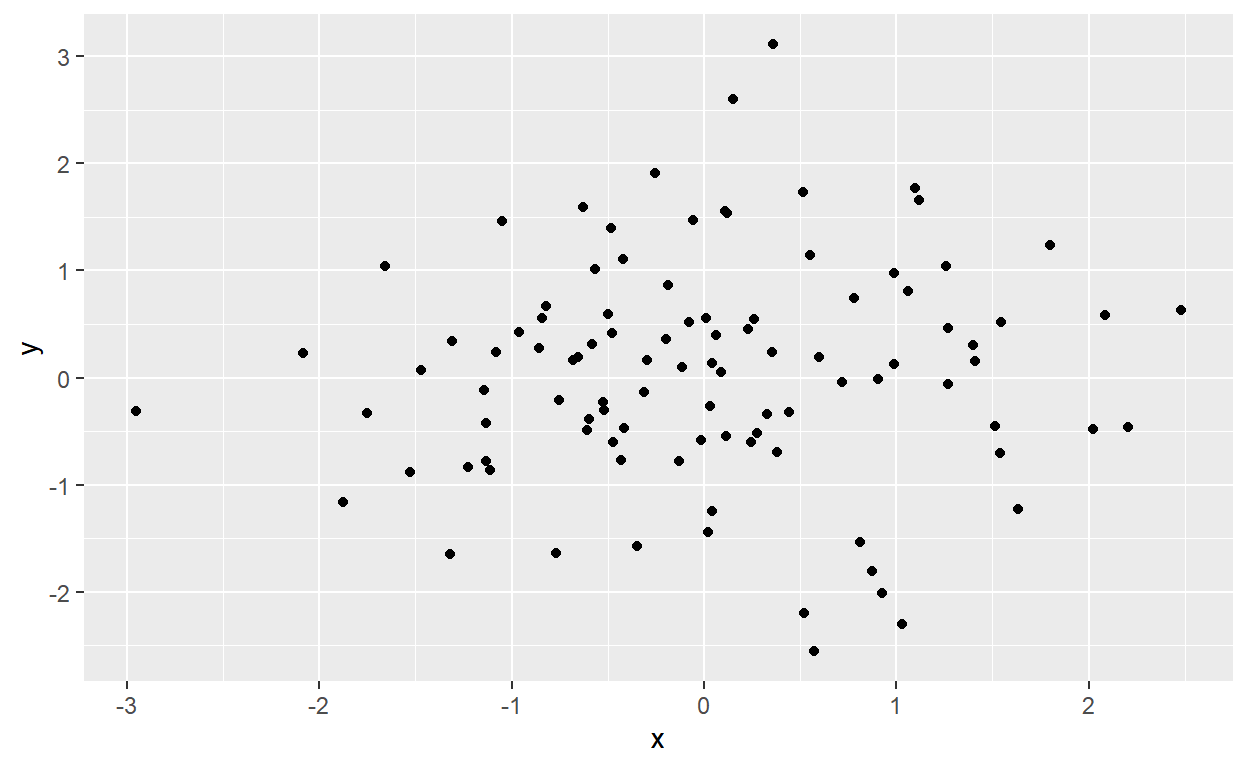
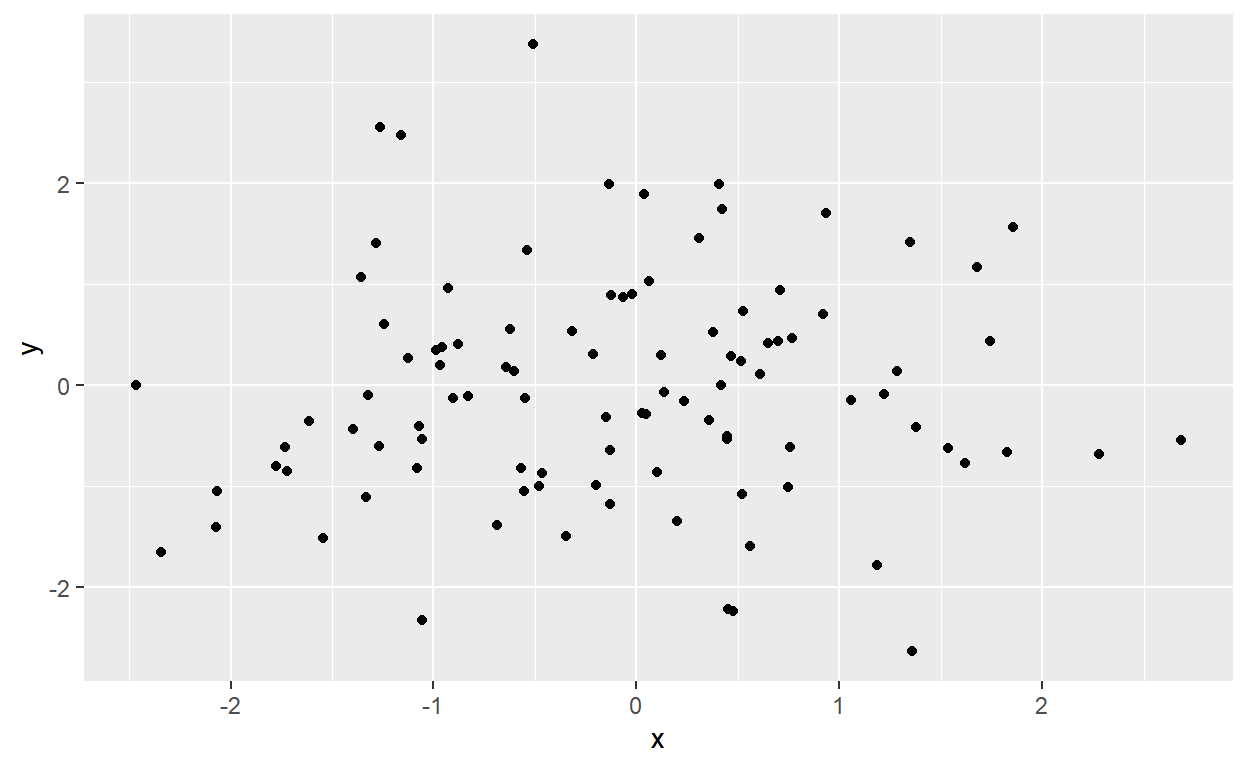
add hypothesis to index

diff --git a/docs/index.html b/docs/index.html
@@ -2091,14 +2091,17 @@ code span.wa { color: #5e5e5e; font-style: italic; } /* Warning */
 
 
 <div class="d-article">
+<head>
+<script src="https://hypothes.is/embed.js" async></script>
+</head>
 <p>Lorem ipsum dolor sit amet, consectetur adipiscing elit, sed do eiusmod tempor incididunt ut labore et dolore magna aliqua. Aliquam faucibus purus in massa. Pulvinar neque laoreet suspendisse interdum consectetur libero id faucibus. Risus in hendrerit gravida rutrum quisque non tellus. Vitae purus faucibus ornare suspendisse sed nisi lacus. Blandit volutpat maecenas volutpat blandit aliquam etiam erat velit scelerisque. Sollicitudin tempor id eu nisl nunc mi ipsum faucibus vitae. Duis at tellus at urna condimentum mattis pellentesque. Consectetur adipiscing elit ut aliquam. Ultrices eros in cursus turpis massa tincidunt dui. Ut ornare lectus sit amet est placerat in egestas. Ut faucibus pulvinar elementum integer enim neque.</p>
 <div class="layout-chunk" data-layout="l-body">
 <p><img src="index_files/figure-html5/unnamed-chunk-1-1.png" width="624" /></p>
 </div>
 <p>Sed nisi lacus sed viverra tellus in. Dignissim suspendisse in est ante. Velit dignissim sodales ut eu sem integer vitae justo. Lorem ipsum dolor sit amet consectetur adipiscing elit ut. Tempor orci eu lobortis elementum nibh tellus molestie nunc. Congue mauris rhoncus aenean vel elit. Tristique magna sit amet purus. Tempus egestas sed sed risus pretium quam vulputate dignissim suspendisse. Amet volutpat consequat mauris nunc congue nisi vitae suscipit tellus. In pellentesque massa placerat duis ultricies lacus sed turpis tincidunt. Amet mattis vulputate enim nulla. Nec tincidunt praesent semper feugiat nibh sed pulvinar proin gravida. Dictum at tempor commodo ullamcorper a lacus. Nunc sed augue lacus viverra. Lectus mauris ultrices eros in cursus turpis massa. Egestas quis ipsum suspendisse ultrices gravida.</p>
 <div class="layout-chunk" data-layout="l-body">
-<div id="htmlwidget-7ad26327c539f2e6b725" style="width:624px;height:384px;" class="plotly html-widget"></div>
-<script type="application/json" data-for="htmlwidget-7ad26327c539f2e6b725">{"x":{"data":[{"x":[-0.470922708622803,-0.525332683863375,0.228465040708081,-0.423224576609438,-0.520581955047997,0.516056286407597,-0.818811933272818,1.26083787815944,-0.0578514241185857,-0.128304597467915,0.242715058323581,-0.755217530786517,0.0437603943058629,-1.08069871113269,1.39835451951121,0.986148786908755,0.0210759197556903,1.51139959933412,-0.963864170877986,1.06326016044508,-0.501365997323327,1.03122037480688,0.599559476162875,1.40769636406824,-0.432771788643637,-1.14310982724865,0.087260314555282,-1.05245154849934,-1.65695477430599,0.903813274120585,-0.348754101304703,-0.597486176473056,-0.25399660730475,-2.08475105321255,0.440366517806569,1.53902937521057,-1.75177394252995,-1.87649979474847,-0.606826782398426,0.522293141594886,-0.0144395563930807,-1.32016929229907,-0.188378321550743,0.122021094049611,-0.311478315309843,1.54441001109354,1.63092407958691,-0.580876203738344,-0.679874555974803,0.571089769248161,-0.295074035981479,-0.478997916896905,2.20531838082837,0.0431375399348107,1.2692874510898,-1.2286901114373,0.0123737150676909,2.47855437122526,0.0324779832897015,-0.112642436088627,0.354542713486598,-1.31016311492019,1.26918416319636,2.02489357137564,0.109615760579394,-0.857147430734865,-0.414142418222927,-1.13344275154242,-0.196501842561438,0.718451380688568,0.811435652916273,0.875648973044329,1.09580787038857,1.12034320520914,0.550170935743917,-0.567279466443453,0.379471086885187,-0.631245736259801,0.260510496201475,0.148661831793631,-0.484405882764331,-0.657537466748591,-0.771808653295114,-0.0777534220286473,-1.11091066437994,0.0639488121583972,-1.52938632561828,0.989309005299128,2.08481645125809,-2.95416021347056,0.928254657517707,0.276701432973086,-0.84125736920638,-1.47209633960409,-1.13164489018588,0.326141956624248,1.79717672709035,0.115357017489081,0.356562525646185,0.779072907799762],"y":[-0.600964836308273,-0.225335499949636,0.454984198495073,1.11026009242324,-0.304615050011539,1.72775561064807,0.663994137146154,1.0426048003196,1.47204221974353,-0.781382222396711,-0.600597579467009,-0.205137263101113,0.135234298184707,0.23548346419448,0.301358382516322,0.130288433267433,-1.43906894706239,-0.450338005077777,0.425220619409574,0.807739949046905,0.592266721219744,-2.30154993758267,0.194972774220819,0.150598446207751,-0.768615024339789,-0.117211064687173,0.0532965013279102,1.45678486788243,1.04157238409493,-0.0151214589975831,-1.57288996612825,-0.387825262984479,1.9119960444602,0.232094694673552,-0.318613614198094,-0.702969793236207,-0.326793215266181,-1.16015691351886,-0.489318435058216,-2.19907519609456,-0.58537374150171,-1.64509328547148,0.865297932405173,1.53221871950639,-0.133916831470098,0.522066629356322,-1.22580088671131,0.310076375830113,0.15945600481534,-2.55248314872905,0.163593645644182,0.416722673487436,-0.459752674576101,-1.24491171928319,0.466732390714612,-0.83378088262909,0.551997452933061,0.632606025493533,-0.261967704865544,0.0981096609800705,0.237829931487986,0.336860474500934,-0.0628408305358527,-0.478192143715675,1.55273532282325,0.280038895116113,-0.470386950917091,-0.420495531260061,0.358660490988653,-0.0453345924899042,-1.53195075376606,-1.80350900095267,1.77164205210978,1.66083690679582,1.14062809799485,1.0088142884622,-0.69144894017996,1.59182554954463,0.54921213010506,2.59740153327435,1.39318507394987,0.193948069194219,-1.63389040230987,0.519737502807111,-0.863398190212747,0.392528938710111,-0.880656674150109,0.979283932787966,0.580754663225914,-0.309404430100139,-2.01131940849013,-0.518931261733896,0.551935923992207,0.0667604893550881,-0.774505544411928,-0.343725624289283,1.236702582672,-0.547958538106534,3.10838863143019,0.737997316847097],"text":["x: -0.47092271<br />y: -0.60096484","x: -0.52533268<br />y: -0.22533550","x:  0.22846504<br />y:  0.45498420","x: -0.42322458<br />y:  1.11026009","x: -0.52058196<br />y: -0.30461505","x:  0.51605629<br />y:  1.72775561","x: -0.81881193<br />y:  0.66399414","x:  1.26083788<br />y:  1.04260480","x: -0.05785142<br />y:  1.47204222","x: -0.12830460<br />y: -0.78138222","x:  0.24271506<br />y: -0.60059758","x: -0.75521753<br />y: -0.20513726","x:  0.04376039<br />y:  0.13523430","x: -1.08069871<br />y:  0.23548346","x:  1.39835452<br />y:  0.30135838","x:  0.98614879<br />y:  0.13028843","x:  0.02107592<br />y: -1.43906895","x:  1.51139960<br />y: -0.45033801","x: -0.96386417<br />y:  0.42522062","x:  1.06326016<br />y:  0.80773995","x: -0.50136600<br />y:  0.59226672","x:  1.03122037<br />y: -2.30154994","x:  0.59955948<br />y:  0.19497277","x:  1.40769636<br />y:  0.15059845","x: -0.43277179<br />y: -0.76861502","x: -1.14310983<br />y: -0.11721106","x:  0.08726031<br />y:  0.05329650","x: -1.05245155<br />y:  1.45678487","x: -1.65695477<br />y:  1.04157238","x:  0.90381327<br />y: -0.01512146","x: -0.34875410<br />y: -1.57288997","x: -0.59748618<br />y: -0.38782526","x: -0.25399661<br />y:  1.91199604","x: -2.08475105<br />y:  0.23209469","x:  0.44036652<br />y: -0.31861361","x:  1.53902938<br />y: -0.70296979","x: -1.75177394<br />y: -0.32679322","x: -1.87649979<br />y: -1.16015691","x: -0.60682678<br />y: -0.48931844","x:  0.52229314<br />y: -2.19907520","x: -0.01443956<br />y: -0.58537374","x: -1.32016929<br />y: -1.64509329","x: -0.18837832<br />y:  0.86529793","x:  0.12202109<br />y:  1.53221872","x: -0.31147832<br />y: -0.13391683","x:  1.54441001<br />y:  0.52206663","x:  1.63092408<br />y: -1.22580089","x: -0.58087620<br />y:  0.31007638","x: -0.67987456<br />y:  0.15945600","x:  0.57108977<br />y: -2.55248315","x: -0.29507404<br />y:  0.16359365","x: -0.47899792<br />y:  0.41672267","x:  2.20531838<br />y: -0.45975267","x:  0.04313754<br />y: -1.24491172","x:  1.26928745<br />y:  0.46673239","x: -1.22869011<br />y: -0.83378088","x:  0.01237372<br />y:  0.55199745","x:  2.47855437<br />y:  0.63260603","x:  0.03247798<br />y: -0.26196770","x: -0.11264244<br />y:  0.09810966","x:  0.35454271<br />y:  0.23782993","x: -1.31016311<br />y:  0.33686047","x:  1.26918416<br />y: -0.06284083","x:  2.02489357<br />y: -0.47819214","x:  0.10961576<br />y:  1.55273532","x: -0.85714743<br />y:  0.28003890","x: -0.41414242<br />y: -0.47038695","x: -1.13344275<br />y: -0.42049553","x: -0.19650184<br />y:  0.35866049","x:  0.71845138<br />y: -0.04533459","x:  0.81143565<br />y: -1.53195075","x:  0.87564897<br />y: -1.80350900","x:  1.09580787<br />y:  1.77164205","x:  1.12034321<br />y:  1.66083691","x:  0.55017094<br />y:  1.14062810","x: -0.56727947<br />y:  1.00881429","x:  0.37947109<br />y: -0.69144894","x: -0.63124574<br />y:  1.59182555","x:  0.26051050<br />y:  0.54921213","x:  0.14866183<br />y:  2.59740153","x: -0.48440588<br />y:  1.39318507","x: -0.65753747<br />y:  0.19394807","x: -0.77180865<br />y: -1.63389040","x: -0.07775342<br />y:  0.51973750","x: -1.11091066<br />y: -0.86339819","x:  0.06394881<br />y:  0.39252894","x: -1.52938633<br />y: -0.88065667","x:  0.98930901<br />y:  0.97928393","x:  2.08481645<br />y:  0.58075466","x: -2.95416021<br />y: -0.30940443","x:  0.92825466<br />y: -2.01131941","x:  0.27670143<br />y: -0.51893126","x: -0.84125737<br />y:  0.55193592","x: -1.47209634<br />y:  0.06676049","x: -1.13164489<br />y: -0.77450554","x:  0.32614196<br />y: -0.34372562","x:  1.79717673<br />y:  1.23670258","x:  0.11535702<br />y: -0.54795854","x:  0.35656253<br />y:  3.10838863","x:  0.77907291<br />y:  0.73799732"],"type":"scatter","mode":"markers","marker":{"autocolorscale":false,"color":"rgba(0,0,0,1)","opacity":1,"size":5.66929133858268,"symbol":"circle","line":{"width":1.88976377952756,"color":"rgba(0,0,0,1)"}},"hoveron":"points","showlegend":false,"xaxis":"x","yaxis":"y","hoverinfo":"text","frame":null}],"layout":{"margin":{"t":27.8721461187215,"r":7.30593607305936,"b":41.8264840182648,"l":37.2602739726027},"plot_bgcolor":"rgba(235,235,235,1)","paper_bgcolor":"rgba(255,255,255,1)","font":{"color":"rgba(0,0,0,1)","family":"","size":14.6118721461187},"xaxis":{"domain":[0,1],"automargin":true,"type":"linear","autorange":false,"range":[-3.22579594270535,2.75019010046005],"tickmode":"array","ticktext":["-3","-2","-1","0","1","2"],"tickvals":[-3,-2,-1,4.44089209850063e-16,1,2],"categoryorder":"array","categoryarray":["-3","-2","-1","0","1","2"],"nticks":null,"ticks":"outside","tickcolor":"rgba(51,51,51,1)","ticklen":3.65296803652968,"tickwidth":0.66417600664176,"showticklabels":true,"tickfont":{"color":"rgba(77,77,77,1)","family":"","size":11.689497716895},"tickangle":-0,"showline":false,"linecolor":null,"linewidth":0,"showgrid":true,"gridcolor":"rgba(255,255,255,1)","gridwidth":0.66417600664176,"zeroline":false,"anchor":"y","title":{"text":"x","font":{"color":"rgba(0,0,0,1)","family":"","size":14.6118721461187}},"hoverformat":".2f"},"yaxis":{"domain":[0,1],"automargin":true,"type":"linear","autorange":false,"range":[-2.83552673773702,3.39143222043815],"tickmode":"array","ticktext":["-2","-1","0","1","2","3"],"tickvals":[-2,-1,0,1,2,3],"categoryorder":"array","categoryarray":["-2","-1","0","1","2","3"],"nticks":null,"ticks":"outside","tickcolor":"rgba(51,51,51,1)","ticklen":3.65296803652968,"tickwidth":0.66417600664176,"showticklabels":true,"tickfont":{"color":"rgba(77,77,77,1)","family":"","size":11.689497716895},"tickangle":-0,"showline":false,"linecolor":null,"linewidth":0,"showgrid":true,"gridcolor":"rgba(255,255,255,1)","gridwidth":0.66417600664176,"zeroline":false,"anchor":"x","title":{"text":"y","font":{"color":"rgba(0,0,0,1)","family":"","size":14.6118721461187}},"hoverformat":".2f"},"shapes":[{"type":"rect","fillcolor":null,"line":{"color":null,"width":0,"linetype":[]},"yref":"paper","xref":"paper","x0":0,"x1":1,"y0":0,"y1":1}],"showlegend":false,"legend":{"bgcolor":"rgba(255,255,255,1)","bordercolor":"transparent","borderwidth":1.88976377952756,"font":{"color":"rgba(0,0,0,1)","family":"","size":11.689497716895}},"hovermode":"closest","barmode":"relative"},"config":{"doubleClick":"reset","showSendToCloud":false},"source":"A","attrs":{"1d902f471bd8":{"x":{},"y":{},"type":"scatter"}},"cur_data":"1d902f471bd8","visdat":{"1d902f471bd8":["function (y) ","x"]},"highlight":{"on":"plotly_click","persistent":false,"dynamic":false,"selectize":false,"opacityDim":0.2,"selected":{"opacity":1},"debounce":0},"shinyEvents":["plotly_hover","plotly_click","plotly_selected","plotly_relayout","plotly_brushed","plotly_brushing","plotly_clickannotation","plotly_doubleclick","plotly_deselect","plotly_afterplot","plotly_sunburstclick"],"base_url":"https://plot.ly"},"evals":[],"jsHooks":[]}</script>
+<div id="htmlwidget-b2d756138a0ed5206eeb" style="width:624px;height:384px;" class="plotly html-widget"></div>
+<script type="application/json" data-for="htmlwidget-b2d756138a0ed5206eeb">{"x":{"data":[{"x":[0.359090457389301,-0.687244848279964,-1.73305138356253,0.404942599577758,-0.465746701535849,-0.566900773350924,-1.05870680812176,2.27817122944334,-0.621706015523269,-1.77675991468972,-0.552488772324658,-0.986600450208731,-0.3159916942746,1.22140914615962,-2.46680858461581,0.447202293239474,-0.215227074370529,0.0364428183073453,-0.131371108446765,1.61721757481829,-1.72216773945344,0.520392152074294,-1.54415443435493,-2.06706964135475,-1.24594050884141,0.449345990040106,-0.129829683917857,-1.0832247492811,0.758841184682222,-2.07267982692194,1.05535963221572,-0.880282151099221,-1.39695936719161,-0.831983563419214,1.74174588308675,0.919820586844987,0.748306869733505,0.649832662220204,-0.537669735228561,1.6795084648807,1.34980690344737,-0.604593700015321,-1.3205426031329,-1.28119057849389,0.0297140407882576,-2.34505060899858,-0.511630993810347,-1.12679356124646,-1.27049296942716,0.23440825399242,1.35902078538586,-1.05829652785984,-0.124450198356386,0.695464137682168,-1.06922386166401,1.5353847249665,0.606922881335746,-0.904993210283112,-0.95612086153501,-0.13346039615554,-0.548585224435722,2.68149882244386,-1.3345609859089,-0.0231293552347961,1.18363931733965,1.85361759125809,0.47568415793923,-0.200621219125924,0.76711520997551,0.464031211181546,0.415044180072217,0.443922117631874,0.0631458158874723,-0.349234253810435,-1.35569624444627,0.93341242280365,-0.0684017220601564,1.37574795942643,0.422213599474353,0.376870314046323,0.526179622927171,-0.147653414594098,0.0471295022539164,-1.2612214070574,-0.644613063499362,-0.968557529032416,0.120012877917928,-0.478902999798121,0.709463155015474,0.201034949171931,1.28350668697061,0.306522525185889,0.559666528693267,0.136781021849588,0.0990301506872329,-1.61326980558499,0.513903158420842,-0.929914205286648,1.82787436056157,-1.16090762978849],"y":[-0.349164786087084,-1.38910189463597,-0.610170054600067,1.99446531074592,-0.872046268035642,-0.824340824689447,-0.529833507581669,-0.684158152151602,0.559080110296364,-0.797918346652734,-1.04421941893586,0.349413781682335,0.535330493552852,-0.0909576971449157,-0.0029547979235647,-0.504176165910864,0.308537493983027,1.89596199971046,-0.647589634336684,-0.769599005081147,-0.848601242657752,-1.0735581109751,-1.51651800188693,-1.05160629219712,0.606781369143607,-2.22014131365557,-1.18226793705992,-0.819836204929751,-0.615181982262546,-1.40999029784741,-0.149469417226151,0.403798846687523,-0.430403898574243,-0.106239402163616,0.440941600312374,0.707922430804216,-1.01095945543732,0.419626071422887,1.34041896824346,1.1725455563915,1.41669650820398,0.139035945247286,-0.0933390893972711,1.40245384561067,-0.271779052490357,-1.65207474335529,3.37363750703142,0.273031106765416,-0.599967737062045,-0.155868463722211,-2.63432072059628,-2.32805455867688,0.890901953673943,0.438953842346937,-0.409524570003063,-0.623700433221886,0.107394102459073,-0.126136177356593,0.376023080552425,1.98791520520019,-0.125856574554897,-0.538790819191816,-1.10604257784638,0.90392566460855,-1.77680942702932,1.56274382523762,-2.24006530807548,-0.985788269867965,0.467743191587966,0.284519457696634,0.00152576238381679,-0.537360016423436,1.02639495909341,-1.49827258755304,1.07373004685122,1.7048824872046,0.876917426151729,-0.412731251087778,1.74687075394385,0.530432548113123,0.732035376306514,-0.317809097931198,-0.28857765563926,2.55476663807565,0.177559003883271,0.202292723868212,0.297927636555137,-1.00122277519673,0.939488231879319,-1.34168618599962,0.139802307151293,1.45527347771336,-1.58936371527997,-0.0643015914344836,-0.86373375885682,-0.359317642456313,0.234188966027361,0.960878282076478,-0.662704986399125,2.48150072179644],"text":["x:  0.35909046<br />y: -0.349164786","x: -0.68724485<br />y: -1.389101895","x: -1.73305138<br />y: -0.610170055","x:  0.40494260<br />y:  1.994465311","x: -0.46574670<br />y: -0.872046268","x: -0.56690077<br />y: -0.824340825","x: -1.05870681<br />y: -0.529833508","x:  2.27817123<br />y: -0.684158152","x: -0.62170602<br />y:  0.559080110","x: -1.77675991<br />y: -0.797918347","x: -0.55248877<br />y: -1.044219419","x: -0.98660045<br />y:  0.349413782","x: -0.31599169<br />y:  0.535330494","x:  1.22140915<br />y: -0.090957697","x: -2.46680858<br />y: -0.002954798","x:  0.44720229<br />y: -0.504176166","x: -0.21522707<br />y:  0.308537494","x:  0.03644282<br />y:  1.895962000","x: -0.13137111<br />y: -0.647589634","x:  1.61721757<br />y: -0.769599005","x: -1.72216774<br />y: -0.848601243","x:  0.52039215<br />y: -1.073558111","x: -1.54415443<br />y: -1.516518002","x: -2.06706964<br />y: -1.051606292","x: -1.24594051<br />y:  0.606781369","x:  0.44934599<br />y: -2.220141314","x: -0.12982968<br />y: -1.182267937","x: -1.08322475<br />y: -0.819836205","x:  0.75884118<br />y: -0.615181982","x: -2.07267983<br />y: -1.409990298","x:  1.05535963<br />y: -0.149469417","x: -0.88028215<br />y:  0.403798847","x: -1.39695937<br />y: -0.430403899","x: -0.83198356<br />y: -0.106239402","x:  1.74174588<br />y:  0.440941600","x:  0.91982059<br />y:  0.707922431","x:  0.74830687<br />y: -1.010959455","x:  0.64983266<br />y:  0.419626071","x: -0.53766974<br />y:  1.340418968","x:  1.67950846<br />y:  1.172545556","x:  1.34980690<br />y:  1.416696508","x: -0.60459370<br />y:  0.139035945","x: -1.32054260<br />y: -0.093339089","x: -1.28119058<br />y:  1.402453846","x:  0.02971404<br />y: -0.271779052","x: -2.34505061<br />y: -1.652074743","x: -0.51163099<br />y:  3.373637507","x: -1.12679356<br />y:  0.273031107","x: -1.27049297<br />y: -0.599967737","x:  0.23440825<br />y: -0.155868464","x:  1.35902079<br />y: -2.634320721","x: -1.05829653<br />y: -2.328054559","x: -0.12445020<br />y:  0.890901954","x:  0.69546414<br />y:  0.438953842","x: -1.06922386<br />y: -0.409524570","x:  1.53538472<br />y: -0.623700433","x:  0.60692288<br />y:  0.107394102","x: -0.90499321<br />y: -0.126136177","x: -0.95612086<br />y:  0.376023081","x: -0.13346040<br />y:  1.987915205","x: -0.54858522<br />y: -0.125856575","x:  2.68149882<br />y: -0.538790819","x: -1.33456099<br />y: -1.106042578","x: -0.02312936<br />y:  0.903925665","x:  1.18363932<br />y: -1.776809427","x:  1.85361759<br />y:  1.562743825","x:  0.47568416<br />y: -2.240065308","x: -0.20062122<br />y: -0.985788270","x:  0.76711521<br />y:  0.467743192","x:  0.46403121<br />y:  0.284519458","x:  0.41504418<br />y:  0.001525762","x:  0.44392212<br />y: -0.537360016","x:  0.06314582<br />y:  1.026394959","x: -0.34923425<br />y: -1.498272588","x: -1.35569624<br />y:  1.073730047","x:  0.93341242<br />y:  1.704882487","x: -0.06840172<br />y:  0.876917426","x:  1.37574796<br />y: -0.412731251","x:  0.42221360<br />y:  1.746870754","x:  0.37687031<br />y:  0.530432548","x:  0.52617962<br />y:  0.732035376","x: -0.14765341<br />y: -0.317809098","x:  0.04712950<br />y: -0.288577656","x: -1.26122141<br />y:  2.554766638","x: -0.64461306<br />y:  0.177559004","x: -0.96855753<br />y:  0.202292724","x:  0.12001288<br />y:  0.297927637","x: -0.47890300<br />y: -1.001222775","x:  0.70946316<br />y:  0.939488232","x:  0.20103495<br />y: -1.341686186","x:  1.28350669<br />y:  0.139802307","x:  0.30652253<br />y:  1.455273478","x:  0.55966653<br />y: -1.589363715","x:  0.13678102<br />y: -0.064301591","x:  0.09903015<br />y: -0.863733759","x: -1.61326981<br />y: -0.359317642","x:  0.51390316<br />y:  0.234188966","x: -0.92991421<br />y:  0.960878282","x:  1.82787436<br />y: -0.662704986","x: -1.16090763<br />y:  2.481500722"],"type":"scatter","mode":"markers","marker":{"autocolorscale":false,"color":"rgba(0,0,0,1)","opacity":1,"size":5.66929133858268,"symbol":"circle","line":{"width":1.88976377952756,"color":"rgba(0,0,0,1)"}},"hoveron":"points","showlegend":false,"xaxis":"x","yaxis":"y","hoverinfo":"text","frame":null}],"layout":{"margin":{"t":27.8721461187215,"r":7.30593607305936,"b":41.8264840182648,"l":37.2602739726027},"plot_bgcolor":"rgba(235,235,235,1)","paper_bgcolor":"rgba(255,255,255,1)","font":{"color":"rgba(0,0,0,1)","family":"","size":14.6118721461187},"xaxis":{"domain":[0,1],"automargin":true,"type":"linear","autorange":false,"range":[-2.7242239549688,2.93891419279685],"tickmode":"array","ticktext":["-2","-1","0","1","2"],"tickvals":[-2,-1,0,1,2],"categoryorder":"array","categoryarray":["-2","-1","0","1","2"],"nticks":null,"ticks":"outside","tickcolor":"rgba(51,51,51,1)","ticklen":3.65296803652968,"tickwidth":0.66417600664176,"showticklabels":true,"tickfont":{"color":"rgba(77,77,77,1)","family":"","size":11.689497716895},"tickangle":-0,"showline":false,"linecolor":null,"linewidth":0,"showgrid":true,"gridcolor":"rgba(255,255,255,1)","gridwidth":0.66417600664176,"zeroline":false,"anchor":"y","title":{"text":"x","font":{"color":"rgba(0,0,0,1)","family":"","size":14.6118721461187}},"hoverformat":".2f"},"yaxis":{"domain":[0,1],"automargin":true,"type":"linear","autorange":false,"range":[-2.93471863197766,3.67403541841281],"tickmode":"array","ticktext":["-2","0","2"],"tickvals":[-2,0,2],"categoryorder":"array","categoryarray":["-2","0","2"],"nticks":null,"ticks":"outside","tickcolor":"rgba(51,51,51,1)","ticklen":3.65296803652968,"tickwidth":0.66417600664176,"showticklabels":true,"tickfont":{"color":"rgba(77,77,77,1)","family":"","size":11.689497716895},"tickangle":-0,"showline":false,"linecolor":null,"linewidth":0,"showgrid":true,"gridcolor":"rgba(255,255,255,1)","gridwidth":0.66417600664176,"zeroline":false,"anchor":"x","title":{"text":"y","font":{"color":"rgba(0,0,0,1)","family":"","size":14.6118721461187}},"hoverformat":".2f"},"shapes":[{"type":"rect","fillcolor":null,"line":{"color":null,"width":0,"linetype":[]},"yref":"paper","xref":"paper","x0":0,"x1":1,"y0":0,"y1":1}],"showlegend":false,"legend":{"bgcolor":"rgba(255,255,255,1)","bordercolor":"transparent","borderwidth":1.88976377952756,"font":{"color":"rgba(0,0,0,1)","family":"","size":11.689497716895}},"hovermode":"closest","barmode":"relative"},"config":{"doubleClick":"reset","showSendToCloud":false},"source":"A","attrs":{"37684bb22f44":{"x":{},"y":{},"type":"scatter"}},"cur_data":"37684bb22f44","visdat":{"37684bb22f44":["function (y) ","x"]},"highlight":{"on":"plotly_click","persistent":false,"dynamic":false,"selectize":false,"opacityDim":0.2,"selected":{"opacity":1},"debounce":0},"shinyEvents":["plotly_hover","plotly_click","plotly_selected","plotly_relayout","plotly_brushed","plotly_brushing","plotly_clickannotation","plotly_doubleclick","plotly_deselect","plotly_afterplot","plotly_sunburstclick"],"base_url":"https://plot.ly"},"evals":[],"jsHooks":[]}</script>
 </div>
 <p>Urna porttitor rhoncus dolor purus non. Id interdum velit laoreet id donec ultrices tincidunt arcu non. Posuere morbi leo urna molestie at. Sit amet purus gravida quis. Aliquet enim tortor at auctor urna nunc. Ultrices dui sapien eget mi proin sed libero enim. Suspendisse faucibus interdum posuere lorem ipsum dolor sit. Tincidunt nunc pulvinar sapien et. Mattis ullamcorper velit sed ullamcorper morbi tincidunt ornare massa. Neque viverra justo nec ultrices. Morbi tincidunt ornare massa eget egestas purus viverra. Sit amet mattis vulputate enim nulla. Quis lectus nulla at volutpat. Sed felis eget velit aliquet sagittis id consectetur purus ut. Mauris in aliquam sem fringilla ut morbi tincidunt augue. Massa tincidunt dui ut ornare lectus sit amet est. Amet luctus venenatis lectus magna fringilla urna. Amet nisl purus in mollis nunc. Est pellentesque elit ullamcorper dignissim cras. Diam vulputate ut pharetra sit amet aliquam id diam.</p>
 <p>A diam sollicitudin tempor id eu nisl. Suspendisse in est ante in nibh mauris cursus mattis molestie. Facilisis gravida neque convallis a cras semper auctor. Id aliquet lectus proin nibh nisl. Tellus orci ac auctor augue mauris augue. Purus viverra accumsan in nisl nisi scelerisque eu. Adipiscing enim eu turpis egestas pretium aenean pharetra. Quis risus sed vulputate odio ut enim blandit. Cras pulvinar mattis nunc sed blandit libero. Vitae purus faucibus ornare suspendisse sed nisi lacus sed viverra.</p>

diff --git a/docs/about.html b/docs/about.html
@@ -2033,7 +2033,7 @@ code span.wa { color: #5e5e5e; font-style: italic; } /* Warning */
   </script>
 
   <!--/radix_placeholder_distill-->
-  <script src="site_libs/header-attrs-2.9/header-attrs.js"></script>
+  <script src="site_libs/header-attrs-2.10/header-attrs.js"></script>
   <script src="site_libs/popper-2.6.0/popper.min.js"></script>
   <link href="site_libs/tippy-6.2.7/tippy.css" rel="stylesheet" />
   <link href="site_libs/tippy-6.2.7/tippy-light-border.css" rel="stylesheet" />
